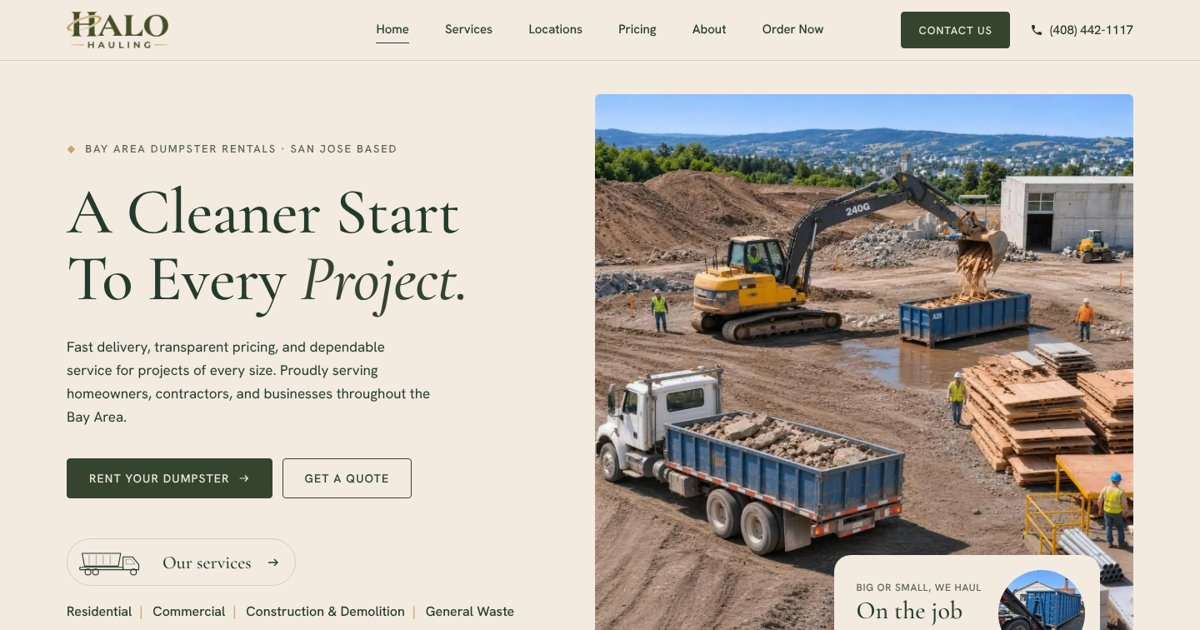
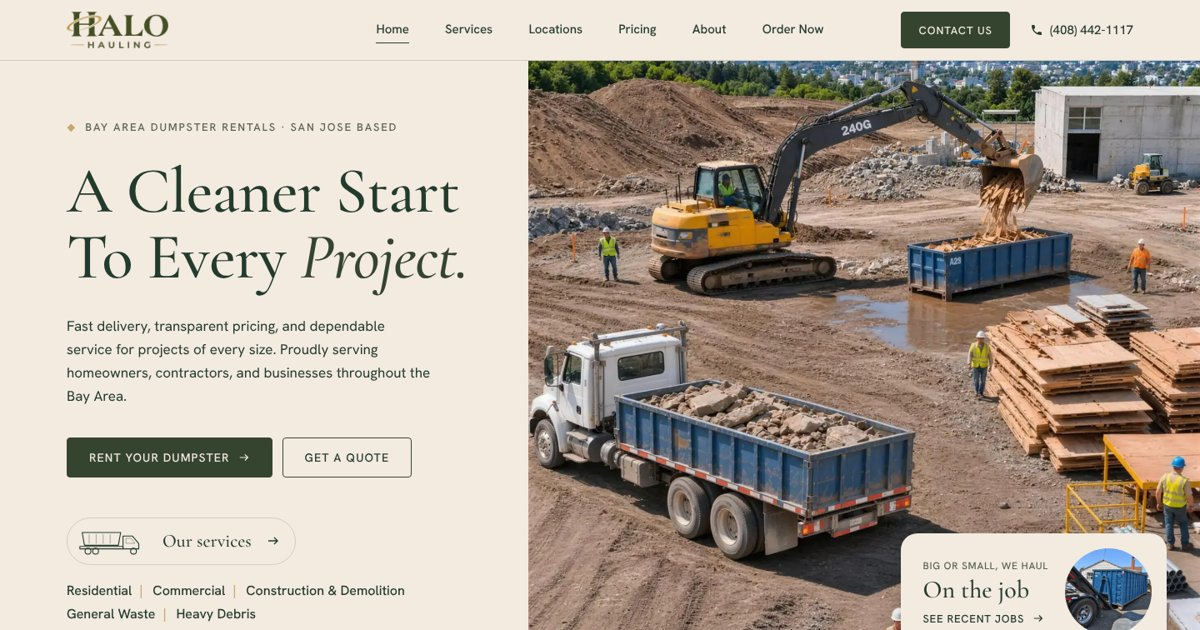
Landing page: widen hero photo to 56 percent, center the text block
Claude-Session: https://claude.ai/code/session_01D1zbuP5dsXHYhoAWNQLH19

diff --git a/index.html b/index.html
@@ -94,8 +94,9 @@ section { padding-block: clamp(80px, 11vw, 160px); }
 /* hero: words left, photograph to the right edge, four promises under it */
 .hero { padding: 0; }
 .hero { border-bottom: 1px solid var(--line); }
-.hero__grid { width: min(100% - 2 * var(--gut), var(--max)); margin-inline: auto; display: grid; grid-template-columns: minmax(0, 1fr) minmax(0, 1.12fr); gap: clamp(32px, 4vw, 64px); min-height: min(760px, calc(100svh - var(--nav) - 120px)); padding-top: clamp(24px, 3vw, 40px); }
-.hero__text { padding: clamp(24px, 4vw, 64px) 0 clamp(40px, 5vw, 72px); display: flex; flex-direction: column; justify-content: center; }
+.hero__grid { display: grid; grid-template-columns: minmax(0, 44fr) minmax(0, 56fr); min-height: min(780px, calc(100svh - var(--nav) - 120px)); }
+.hero__text { padding: clamp(40px, 5vw, 80px) clamp(28px, 3.5vw, 56px) clamp(40px, 5vw, 72px) var(--gut); display: flex; align-items: center; flex-direction: column; justify-content: center; }
+.hero__inner { width: 100%; max-width: 560px; display: flex; flex-direction: column; }
 .hero__kicker { display: flex; align-items: center; gap: 10px; font: 500 13px/1.3 var(--sans); letter-spacing: .14em; text-transform: uppercase; color: var(--muted); }
 .hero__kicker span { color: var(--gold); font-size: 10px; }
 .hero h1 { margin-top: 28px; font: 500 clamp(44px, 5.4vw, 84px)/1.02 var(--serif); letter-spacing: -.01em; }
@@ -113,7 +114,7 @@ section { padding-block: clamp(80px, 11vw, 160px); }
 .hero__cats { display: flex; flex-wrap: wrap; row-gap: 6px; margin: 20px 0 0 -25px; clip-path: inset(0 0 0 25px); font: 500 16px/1.4 var(--sans); }
 .hero__cats li { position: relative; padding-left: 25px; }
 .hero__cats li::before { content: "|"; position: absolute; left: 9px; color: var(--gold); }
-.hero__media { position: relative; min-height: 420px; border-radius: 6px; overflow: hidden; }
+.hero__media { position: relative; min-height: 420px; overflow: hidden; }
 .hero__media picture, .hero__media > picture img { position: absolute; inset: 0; width: 100%; height: 100%; }
 .hero__media > picture img { object-fit: cover; object-position: 50% 55%; }
 .hero__card { position: absolute; right: clamp(16px, 3vw, 40px); bottom: clamp(16px, 3vw, 40px); display: flex; align-items: center; gap: 20px; padding: 18px 18px 18px 26px; background: var(--cream); border-radius: 20px; text-decoration: none; box-shadow: 0 10px 30px rgba(20, 30, 22, .18); transition: transform .3s var(--ease); }
@@ -131,8 +132,9 @@ section { padding-block: clamp(80px, 11vw, 160px); }
 .hero__feats span { display: block; font-size: 15px; color: var(--muted); }
 @media (max-width: 1199px) { .hero__feats li { justify-content: flex-start; } }
 @media (max-width: 1023px) {
-  .hero__grid { grid-template-columns: 1fr; min-height: 0; gap: 0; padding-top: 0; }
-  .hero__text { padding: 48px 0; }
+  .hero__grid { grid-template-columns: 1fr; min-height: 0; }
+  .hero__text { padding: 48px var(--gut); align-items: stretch; }
+  .hero__inner { max-width: none; }
   .hero__media { min-height: 0; aspect-ratio: 4 / 3; }
   .hero__feats { grid-template-columns: 1fr 1fr; row-gap: 28px; }
 }
@@ -389,8 +391,8 @@ section { padding-block: clamp(80px, 11vw, 160px); }
 
 /* load: the hero enters once; nothing else moves on scroll */
 @media (prefers-reduced-motion: no-preference) {
-  .hero__text > * { animation: rise .9s var(--ease) both; }
-  .hero__text > :nth-child(2) { animation-delay: .06s; } .hero__text > :nth-child(3) { animation-delay: .12s; } .hero__text > :nth-child(n+4) { animation-delay: .18s; }
+  .hero__inner > * { animation: rise .9s var(--ease) both; }
+  .hero__inner > :nth-child(2) { animation-delay: .06s; } .hero__inner > :nth-child(3) { animation-delay: .12s; } .hero__inner > :nth-child(n+4) { animation-delay: .18s; }
   .hero__media { animation: fade 1.2s var(--ease) .1s both; }
 }
 @keyframes rise { from { opacity: 0; transform: translateY(14px); } }
@@ -426,6 +428,7 @@ section { padding-block: clamp(80px, 11vw, 160px); }
   <section class="hero" aria-labelledby="hero-h">
     <div class="hero__grid">
       <div class="hero__text">
+        <div class="hero__inner">
         <p class="hero__kicker"><span aria-hidden="true">&#9670;</span>Bay Area dumpster rentals &middot; San Jose based</p>
         <h1 id="hero-h">A Cleaner Start <br>To Every <em>Project.</em></h1>
         <p class="hero__sub">Fast delivery, transparent pricing, and dependable service for projects of every size. Proudly serving homeowners, contractors, and businesses throughout the Bay Area.</p>
@@ -435,6 +438,7 @@ section { padding-block: clamp(80px, 11vw, 160px); }
         </div>
         <a class="hero__svc" href="#services"><svg class="hero__truck" viewBox="0 0 120 50" aria-hidden="true"><path d="M8 10h66l-4 22H12z"/><path class="t" d="M20 13v16M32 13v16M44 13v16M56 13v16"/><path d="M4 34h74v4H4z"/><path d="M78 16h16l11 13v9H78z"/><path class="t" d="M83 20h8.5l7 8.5H83z"/><circle cx="18" cy="42" r="5"/><circle cx="31" cy="42" r="5"/><circle cx="96" cy="42" r="5"/></svg><span>Our services</span><svg class="arr" viewBox="0 0 16 16" aria-hidden="true"><path d="M2 8h11M9 4l4 4-4 4" fill="none" stroke="currentColor" stroke-width="1.4"/></svg></a>
         <ul class="hero__cats"><li>Residential</li><li>Commercial</li><li>Construction &amp; Demolition</li><li>General Waste</li><li>Heavy Debris</li></ul>
+        </div>
       </div>
       <div class="hero__media">
         <picture><source media="(max-width: 1023px)" srcset="img/hero-site-820.webp"><img src="img/hero-site-1400.webp" alt="An excavator loading debris into a blue roll-off dumpster on a construction site, with a loaded truck in front" width="1400" height="1742" fetchpriority="high"></picture>
